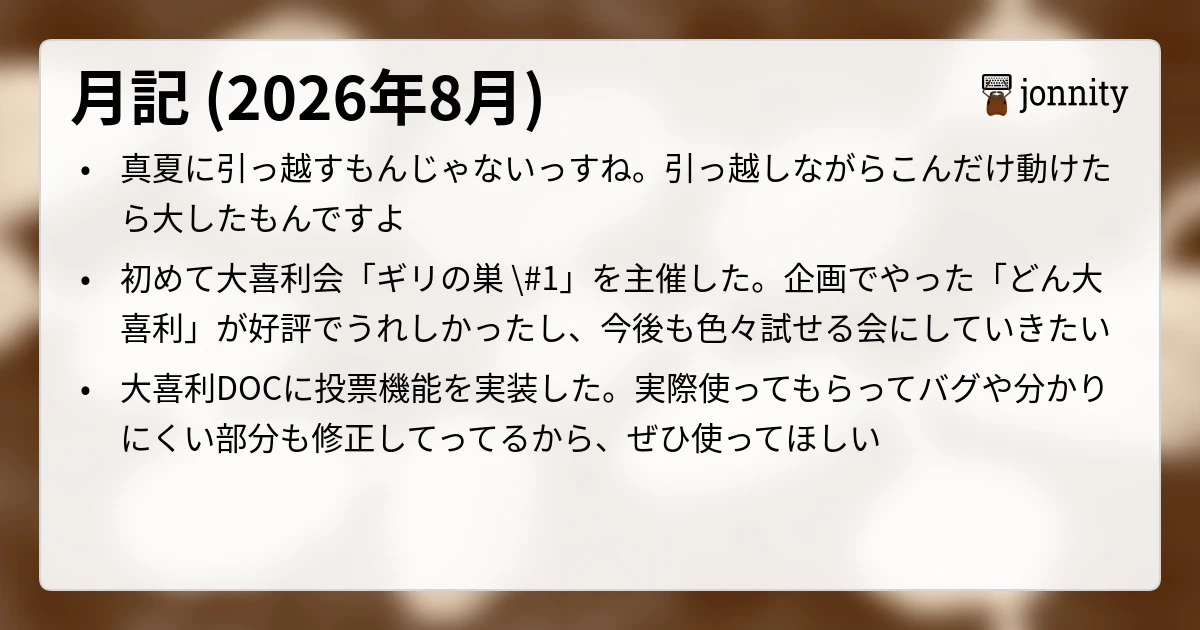
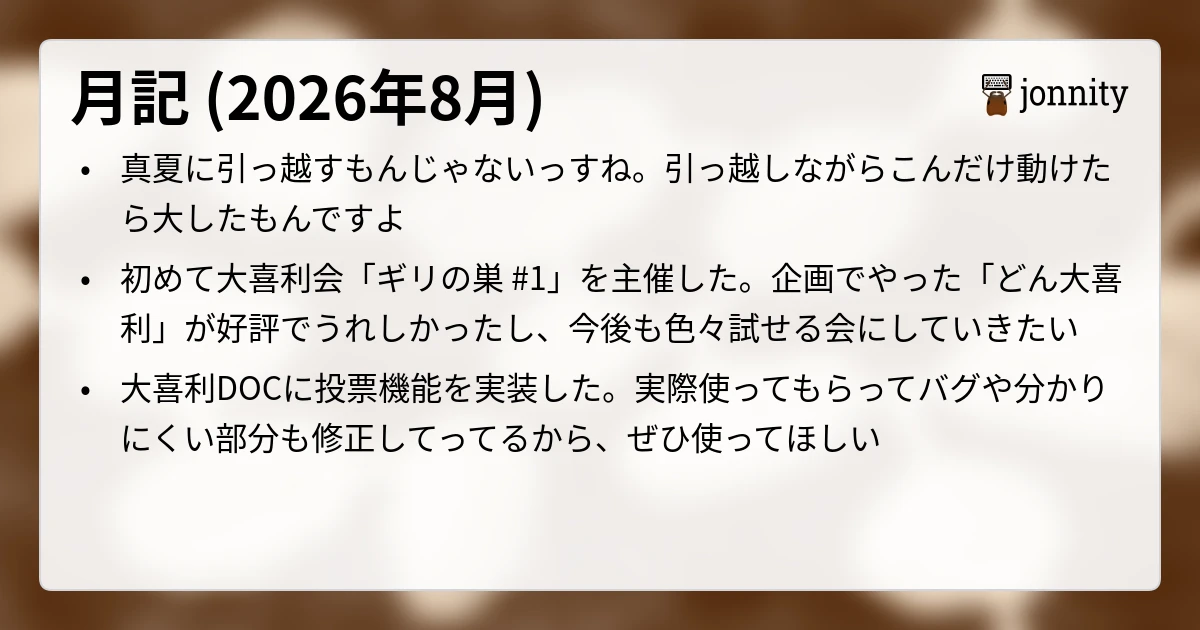
fix: 月記(2026年8月)のsummaryをクォートしてサムネを再生成
「ギリの巣 #1」の ` #` はYAMLではコメント開始と解釈されるため、
エスケープを外した結果summaryが「初めて大喜利会「ギリの巣」で
途切れていた。バックスラッシュを書き足すのではなく、値全体を
ダブルクォートで囲んで解決する。

あわせて、`\#` が焼き込まれたままだったOGPサムネイルを再生成した。

Claude-Session: https://claude.ai/code/session_011wHi3Htq5vkzJ5QW7bL9Yx

Changed region(s): [[0.0925, 0.4222, 0.9558, 0.5429]]

diff --git a/src/entries/monthly-2026-08.md b/src/entries/monthly-2026-08.md
@@ -6,7 +6,7 @@ tags:
   - 月記
 summary:
   - 真夏に引っ越すもんじゃないっすね。引っ越しながらこんだけ動けたら大したもんですよ
-  - 初めて大喜利会「ギリの巣 #1」を主催した。企画でやった「どん大喜利」が好評でうれしかったし、今後も色々試せる会にしていきたい
+  - "初めて大喜利会「ギリの巣 #1」を主催した。企画でやった「どん大喜利」が好評でうれしかったし、今後も色々試せる会にしていきたい"
   - 大喜利DOCに投票機能を実装した。実際使ってもらってバグや分かりにくい部分も修正してってるから、ぜひ使ってほしい
 thumbnail:
   url: monthly-report-2026-08-thumbnail.webp
